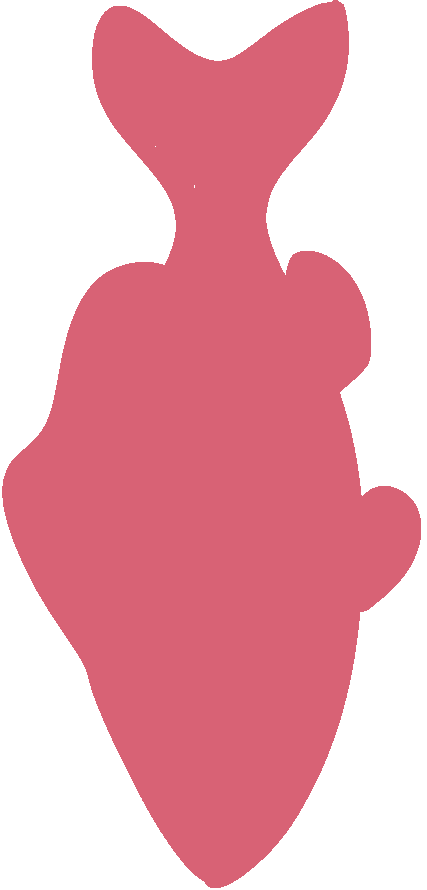
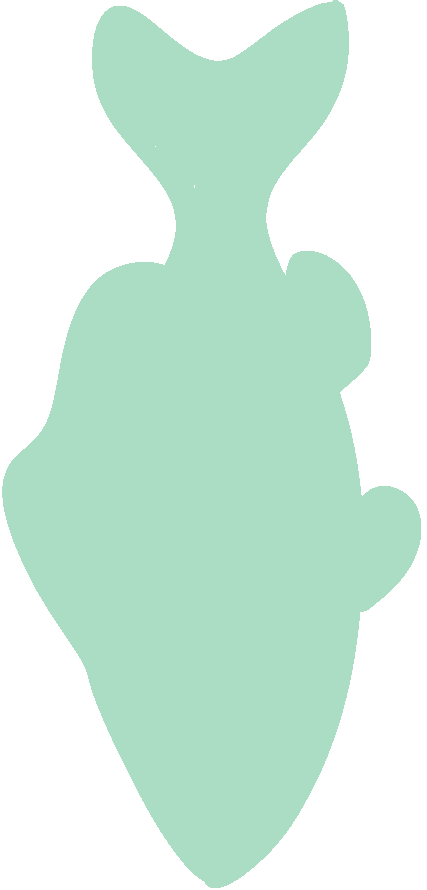
remove red

diff --git a/poster/sketch.js b/poster/sketch.js
@@ -26,7 +26,7 @@ function mouseInCanvas() {
 let fishLines = [];
 let fishBases = [];
 
-const numColors = 15;
+const numColors = 14;
 
 function loadFishImages() {
   for (let i = 0; i < numColors; ++i) {
@@ -116,7 +116,7 @@ class Fish extends Scuttler {
     let dodging = this.dodgeMouse(this);
     if (dodging != null) {
       dodging.setMag(100);
-      this.applyForce(dodging);
+      // this.applyForce(dodging);
     }
 
     this.velocity.add(this.acceleration);
@@ -128,14 +128,14 @@ class Fish extends Scuttler {
     this.acceleration.mult(0);
   }
   alive() {
-    return this.position.y < (this.target.y + 10);
+    return this.position.y < (this.target.y + this.height);
   }
 }
 
 class FishSpawner extends Spawner {
   constructor() {
     super(0.1);
-    this.spawnCountRange = [1, 2];
+    this.spawnCountRange = [2, 4];
   }
 
 

diff --git a/fish_zone/hello.py b/fish_zone/hello.py
@@ -7,7 +7,6 @@ iridescent_colors = [
     "#5177e0",
     "#aa71eb",
     "#fa4ada",
-    "#d86275",
     "#aaddc3",
     "#efc0be",
     "#6feee9",
@@ -54,7 +53,7 @@ def colorLines(lineColorHex):
                 continue
             if (pixels[i, j])[0] == 0:
                 color_rgb = ImageColor.getrgb(lineColorHex)
-                pixels[i, j] = (addColorModifier(color_rgb[0]), addColorModifier(color_rgb[1]), addColorModifier(color_rgb[2]))
+                pixels[i, j] = color_rgb
             else:
                 pixels[i, j] = (0, 0, 0, 0)
     return img
@@ -73,9 +72,9 @@ def colorBase(baseColorHex):
 def main():
     print("Hello from fish-zone!") 
     for i in range(len(iridescent_colors)):
-        # fish_base = colorBase(iridescent_colors[i])
-        # fish_base = fish_base.rotate(90, expand=True)
-        # fish_base.save(f'bases/fish_{i}.png')
+        fish_base = colorBase(iridescent_colors[i])
+        fish_base = fish_base.rotate(90, expand=True)
+        fish_base.save(f'bases/fish_{i}.png')
         fish_lines = colorLines(iridescent_colors[i])
         fish_lines = fish_lines.rotate(90, expand=True)
         fish_lines.save(f'lines/fish_{i}.png')
